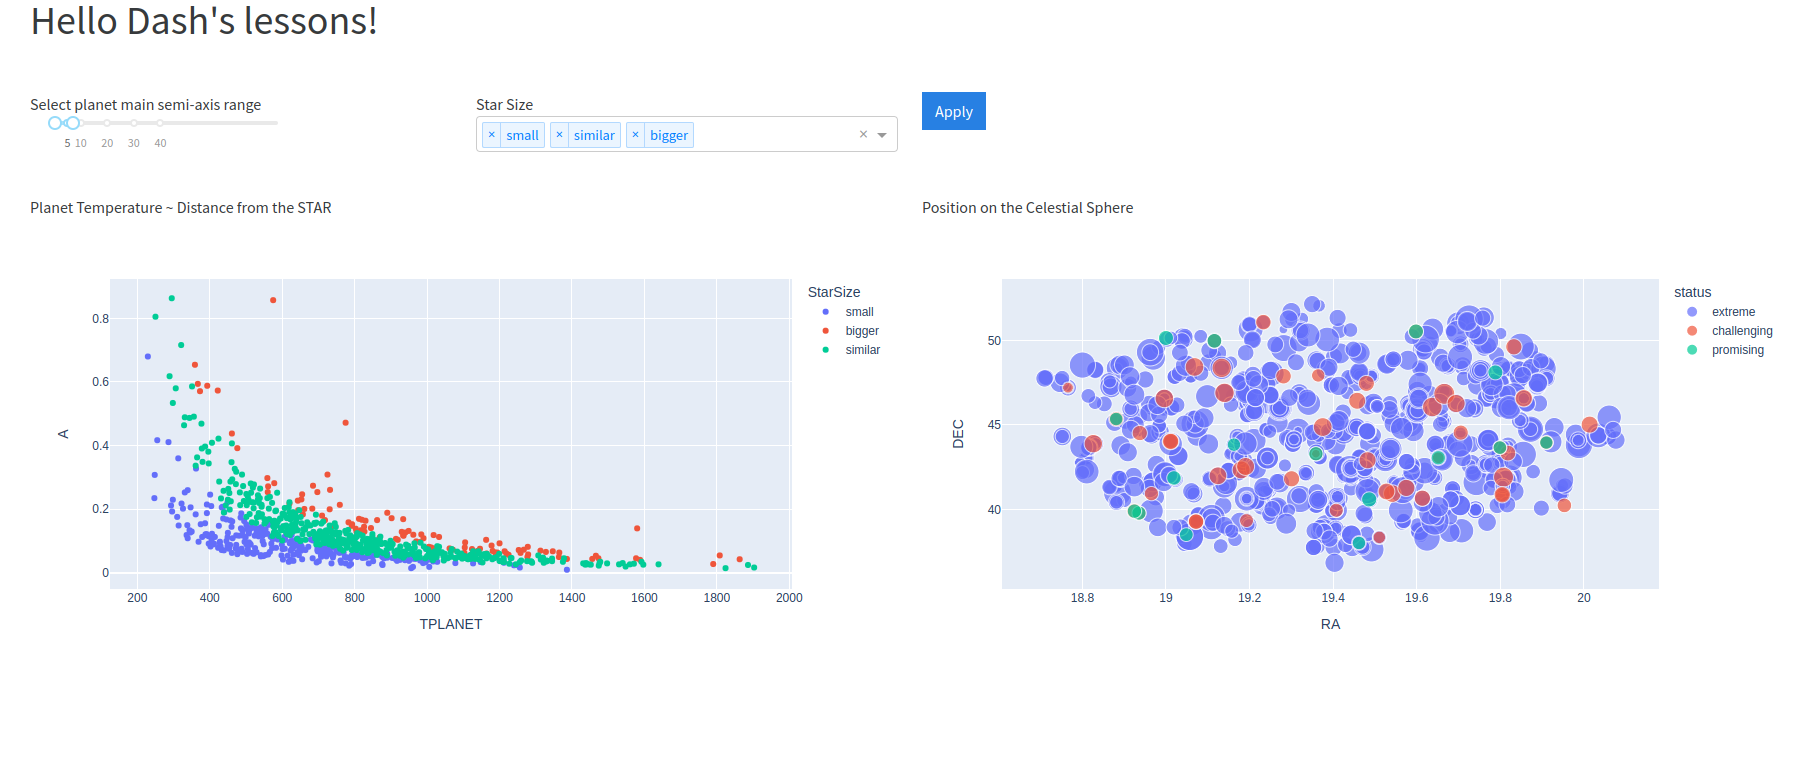
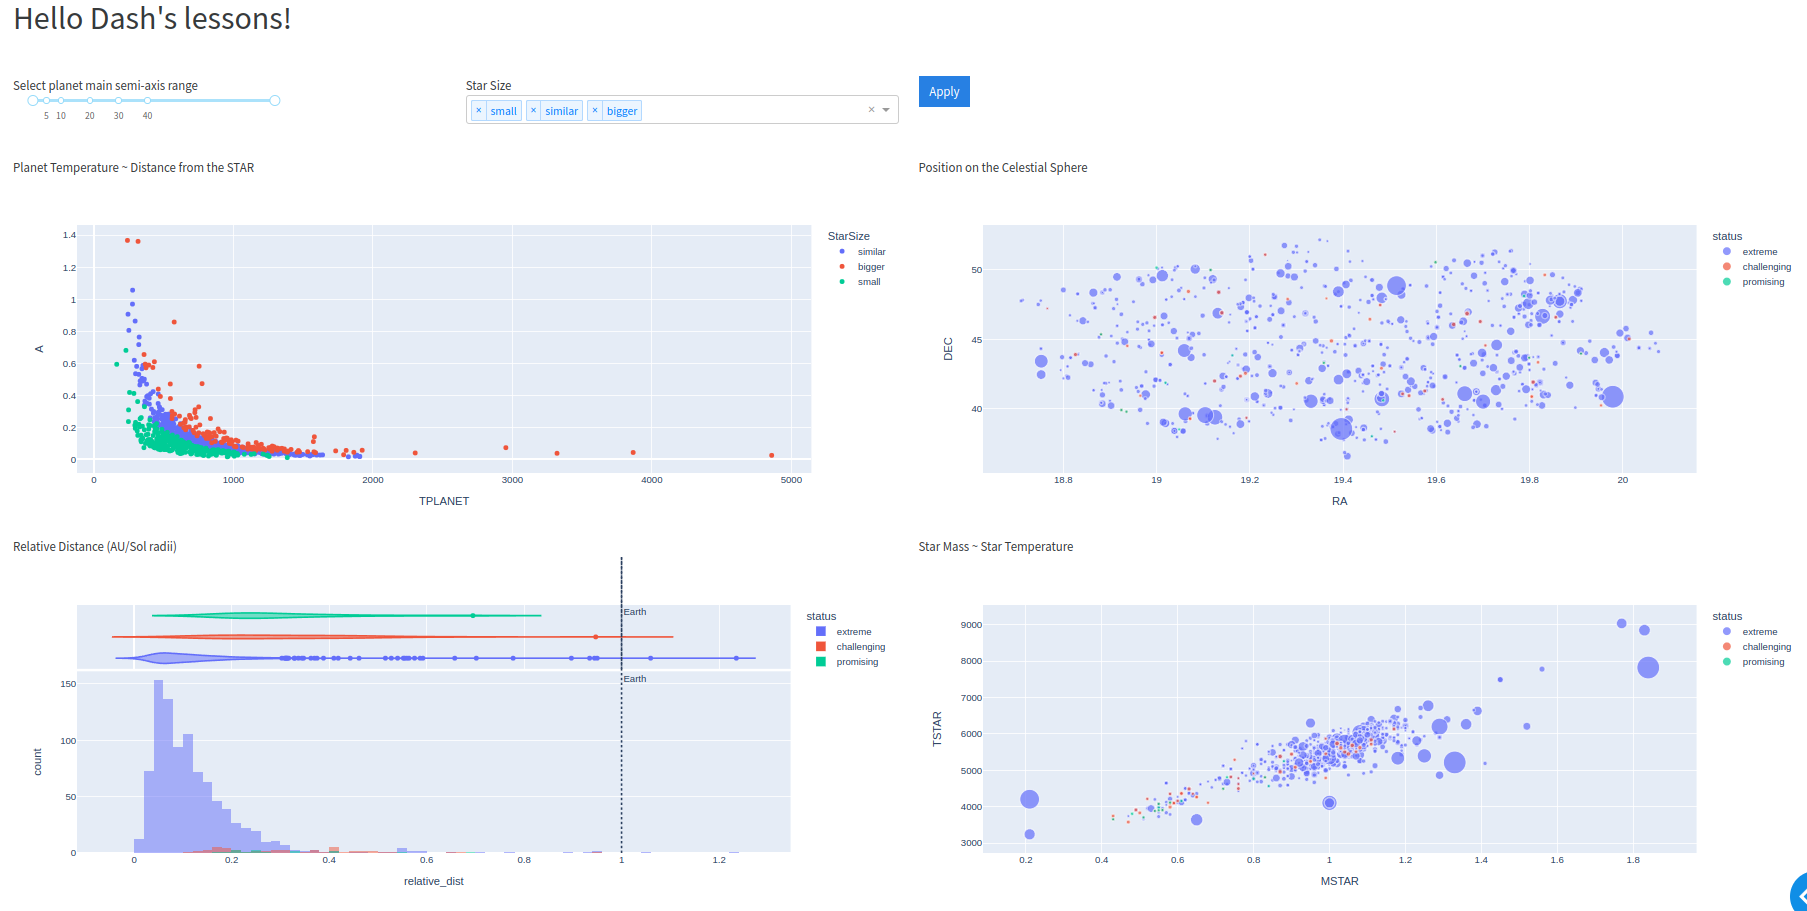
End lesson 9

diff --git a/dash_layout/layout.py b/dash_layout/layout.py
@@ -34,9 +34,11 @@ def get_layout(app: Dash, selectors_dict: dict):
         dbc.Row([
             dbc.Col([html.Div(id='dist-temp-chart')], md=6),
             dbc.Col([html.Div(id='celestial-chart')], md=6)
-        ],
-            style={'margin-bottom': 40}
-        )
+        ]),
+        dbc.Row([
+            dbc.Col(html.Div(id='relative-dist-chart'), md=6),
+            dbc.Col(html.Div(id='mstar-tstar-chart'), md=6)
+        ])
     ],
         style={'margin-left': '80px',
                'margin-right': '80px'}

diff --git a/dash_df/planet_df.py b/dash_df/planet_df.py
@@ -45,4 +45,7 @@ def get_planet_df():
 
     df['status'] = df.status.fillna('extreme')
 
+    #Reative distance (distance to SUN / SUM radii)
+    df.loc[:, 'relative_dist'] = df['A'] / df['RSTAR']
+
     return df

diff --git a/README.md b/README.md
@@ -1,18 +1,15 @@
 # Изучение библиотеки python **Dash**
-### Урок #8: обрабатываем ошибку фильтра
+### Урок #9: новые графики и инсайты!
 
-:tv: Видео [Plotly Dash #8][1]
+:tv: Видео [Plotly Dash #9][1]
 
 1. **Documents** [Dash Plotly](https://dash.plotly.com/layout)
 2. **Youtube playlist** [Plotly Dash - 🚀дашборд в Python🐍](https://www.youtube.com/watch?v=HExq59HlFb0&list=PLIAV3wuAPHZouwZlmvqmC-djRsaDKT8rC&index=1)
 
 ---
-####  Урок #8
-Select filters
+####  Урок #9
+
 ![Lesson's dash](lesson.png)
 
-Filter empty
-![Lesson's dash](lesson_v2.png)
 
-
-[1]: https://www.youtube.com/watch?v=zQHRFHWLk1M&list=PLIAV3wuAPHZouwZlmvqmC-djRsaDKT8rC&index=8
+[1]: https://www.youtube.com/watch?v=zQHRFHWLk1M&list=PLIAV3wuAPHZouwZlmvqmC-djRsaDKT8rC&index=9
